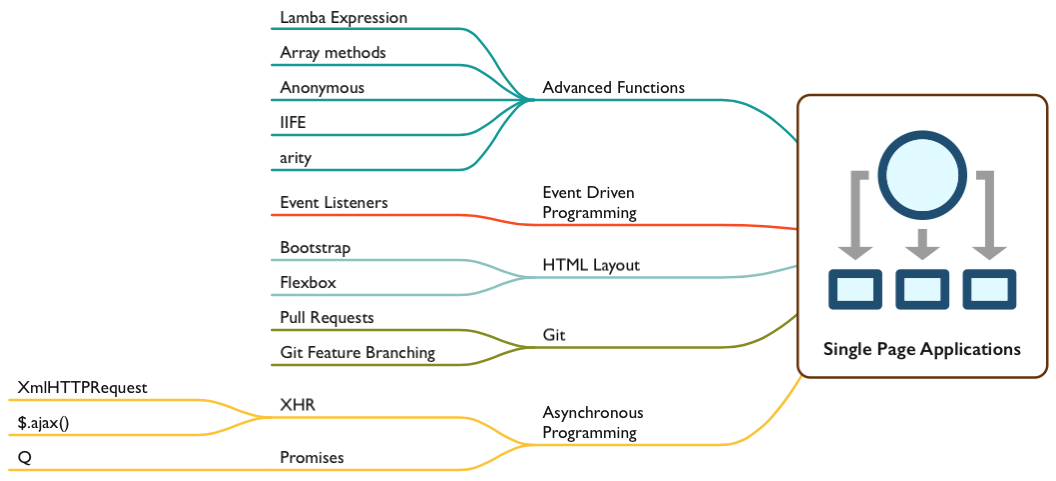
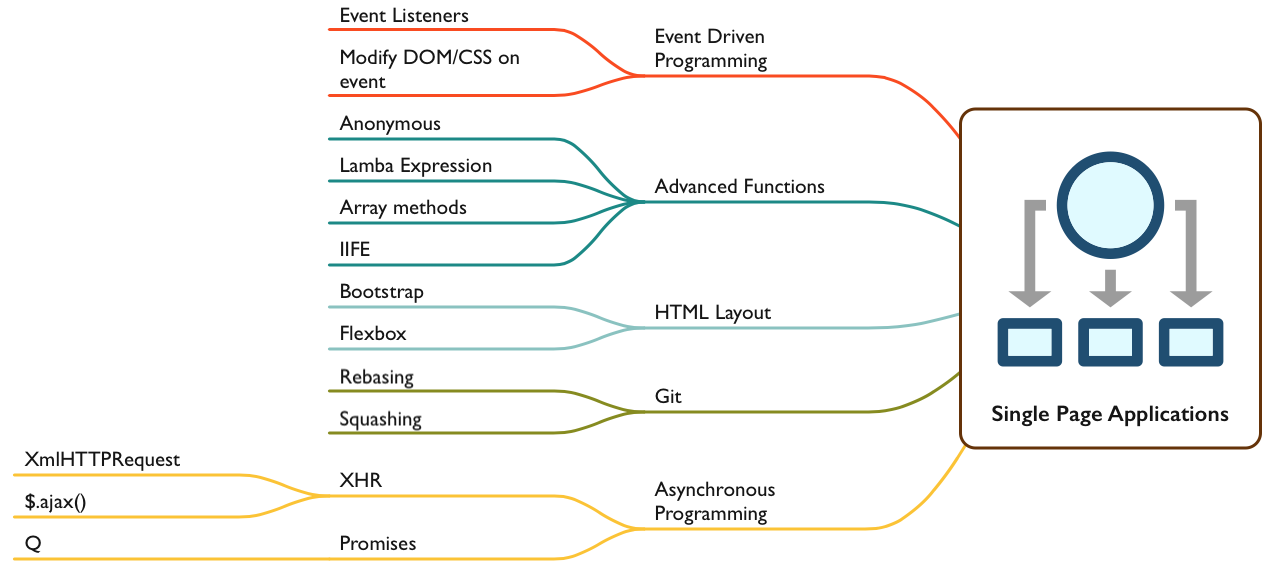
New SPA mind map image. Some typos in exercises. And empty README created for one new exercises and the SPA quiz

diff --git a/single-page-applications/exercises/DYNAMIC_CARDS.md b/single-page-applications/exercises/DYNAMIC_CARDS.md
@@ -1,0 +1,31 @@
+# Basic Array Methods
+
+## Setup
+
+These commands are a helpful quick start. You may choose to ignore them completely and create your own directory structure. If you choose to use this recommendation, just copy the commands below and paste. It doesn't matter what directory you are currently in.
+
+### Vagrant machine
+
+```bash
+mkdir -p /vagrant/exercises/spa/event-handlers && cd $_
+touch index.html
+touch events.js
+touch events.css
+```
+
+### Host machine (students not using Vagrant)
+
+```bash
+mkdir -p ~/workspace/exercises/spa/event-handlers && cd $_
+touch index.html
+touch events.js
+touch events.css
+```
+
+## Instructions
+
+1. Create an HTML page that contains a text area and a button labeled *Create*.
+1. When the user enters in text into the text area and then clicks the create button, create a new card element in the DOM - similar to the quiz and group project. You decide the height/width of the card.
+1. When the user selects a color from the first input, then the background color of that card, and no other cards, should change to the color chosen.
+1. When the user selects a color from the second input, then the font color of that card, and no other cards, should change to the color chosen.
+1. When the user clicks the *Delete* button, the containing card, and no other cards, should then be removed from the DOM. Not just made invisible, actually removed from the DOM.

diff --git a/single-page-applications/exercises/README.md b/single-page-applications/exercises/README.md
@@ -1,9 +1,13 @@
 # Exercises
 
-## Array Methods and Event Listeners
+## Array Functions 
 
 1. [String manipulation](STRING_MANIPULATION.md)
+
+## Event Listeners
+
 1. [Guinea pig](GUINEA_PIG.md)
+1. [Dynamic cards](DYNAMIC_CARDS.md)
 
 ## IIFE
 

diff --git a/single-page-applications/exercises/STRING_MANIPULATION.md b/single-page-applications/exercises/STRING_MANIPULATION.md
@@ -1,4 +1,4 @@
-# Basic Array Methods
+# String Manipulation
 
 ## Setup
 
